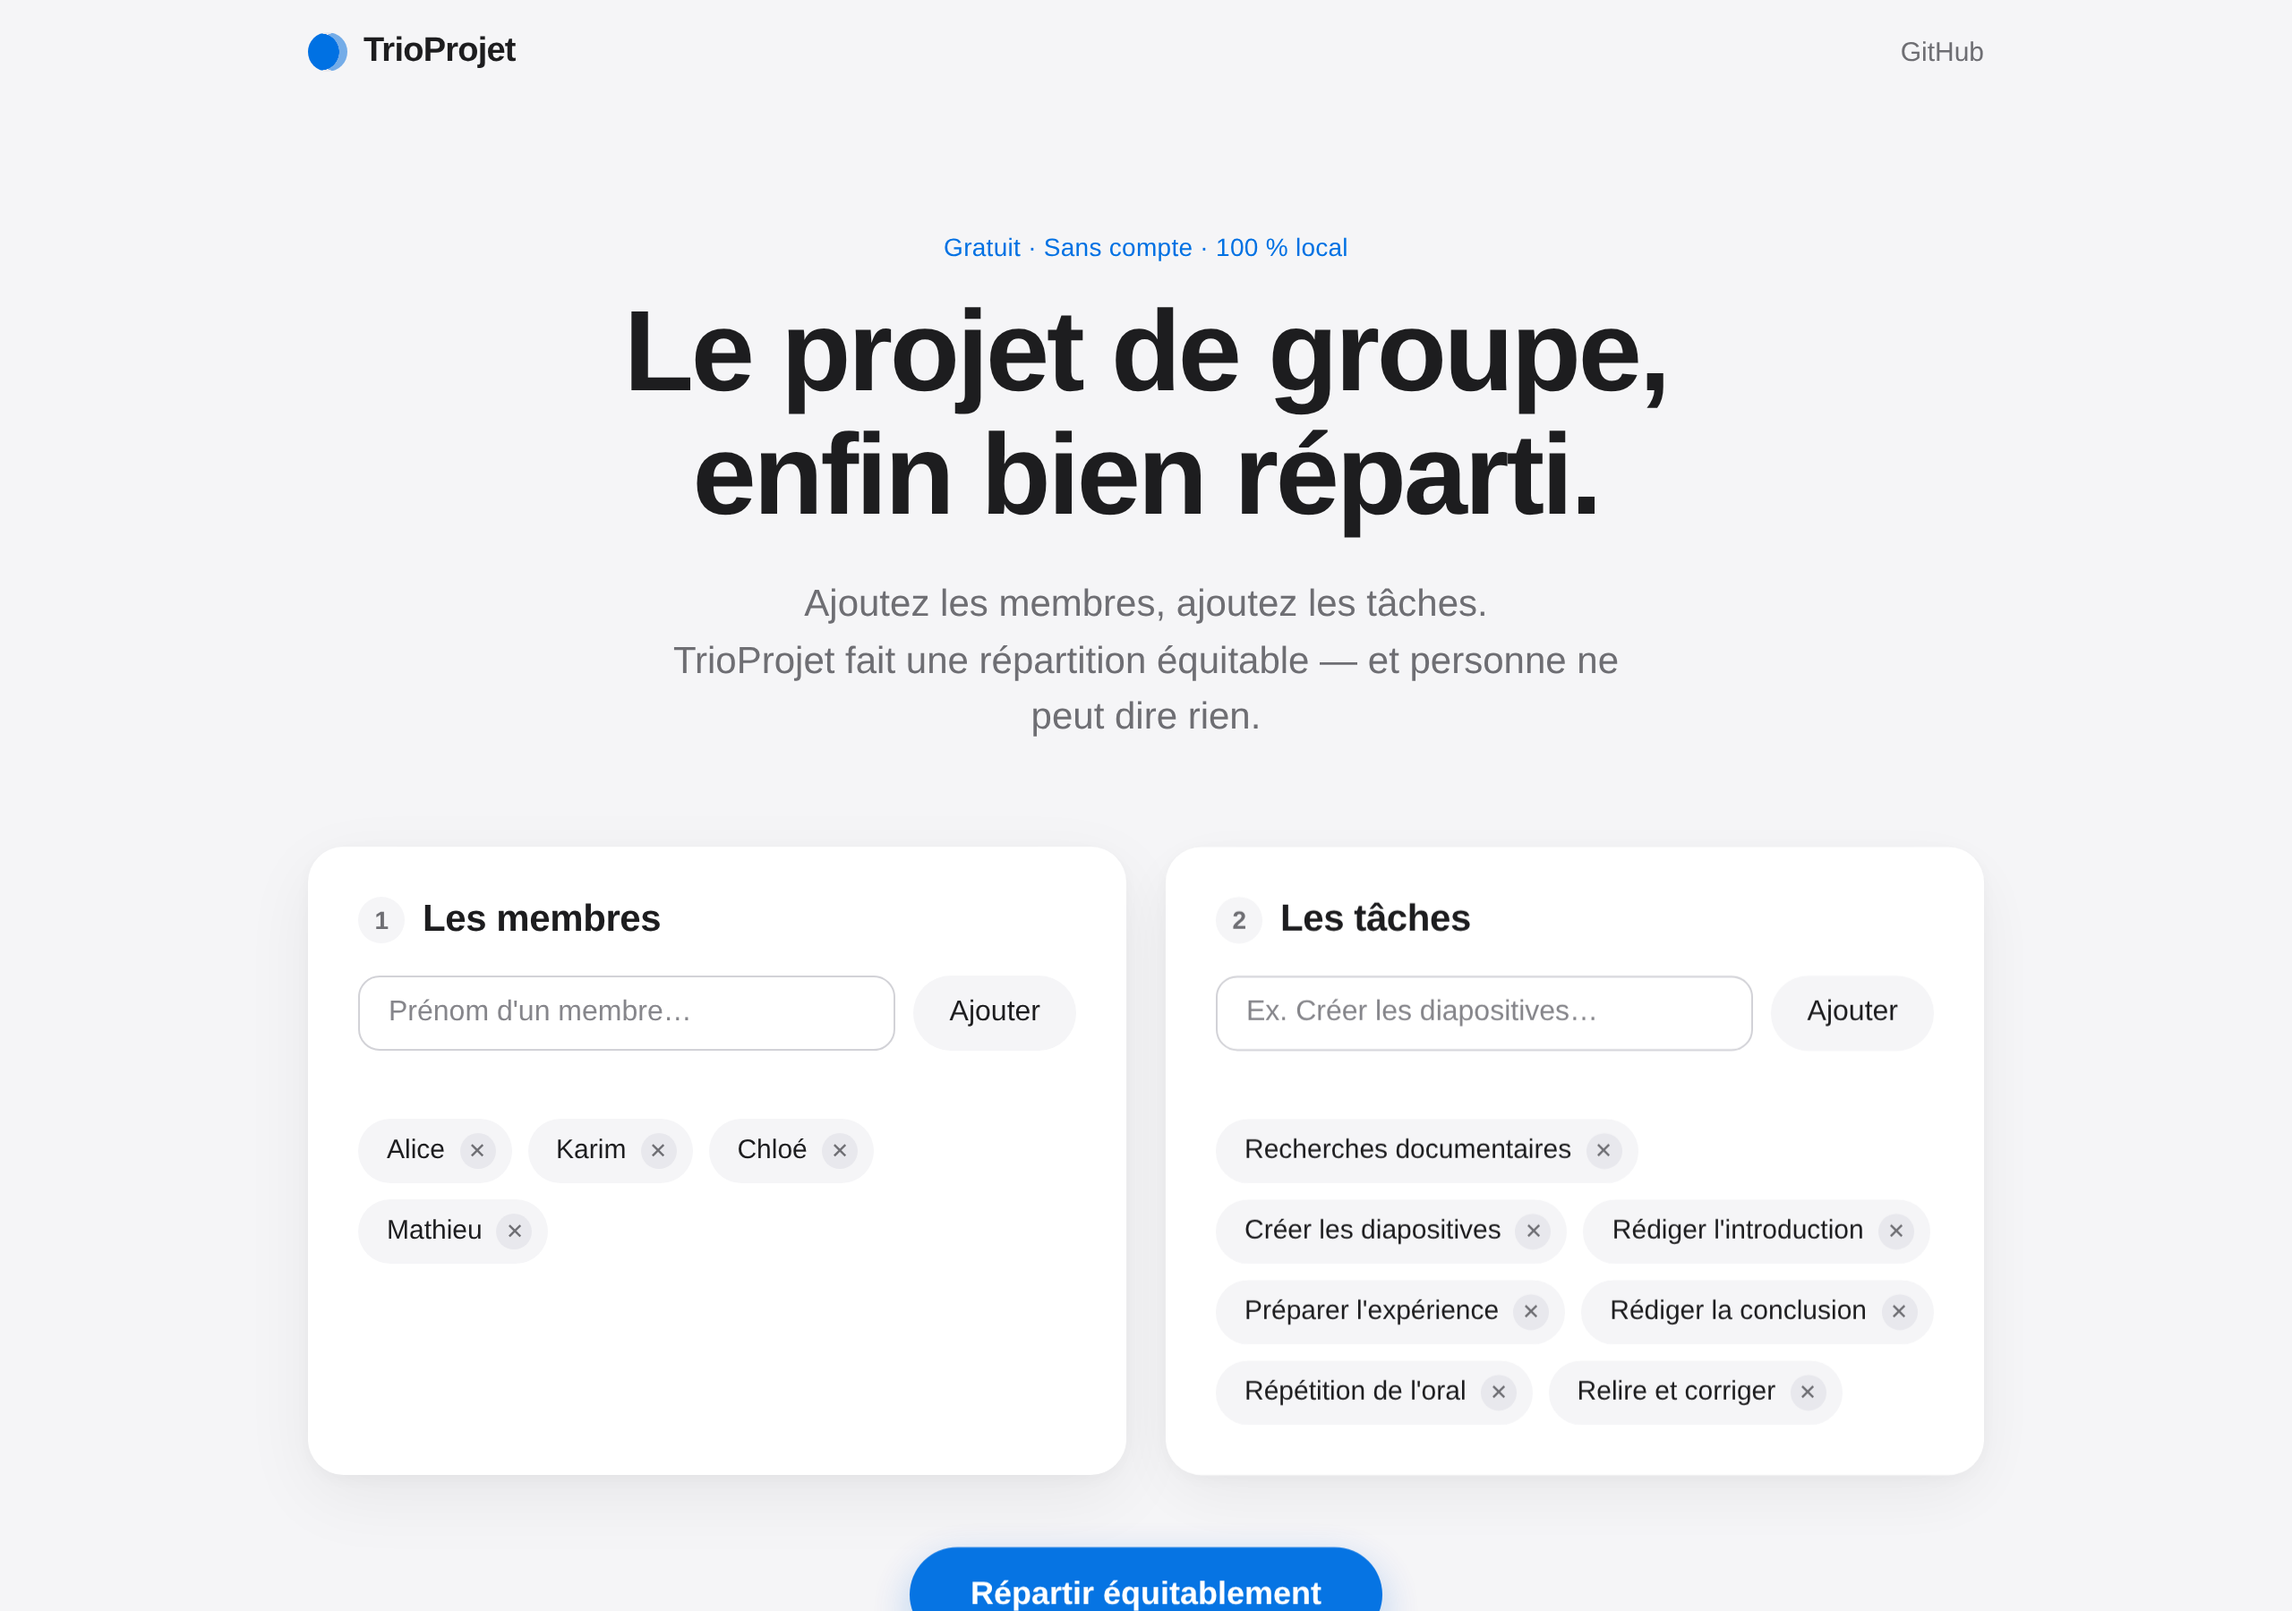
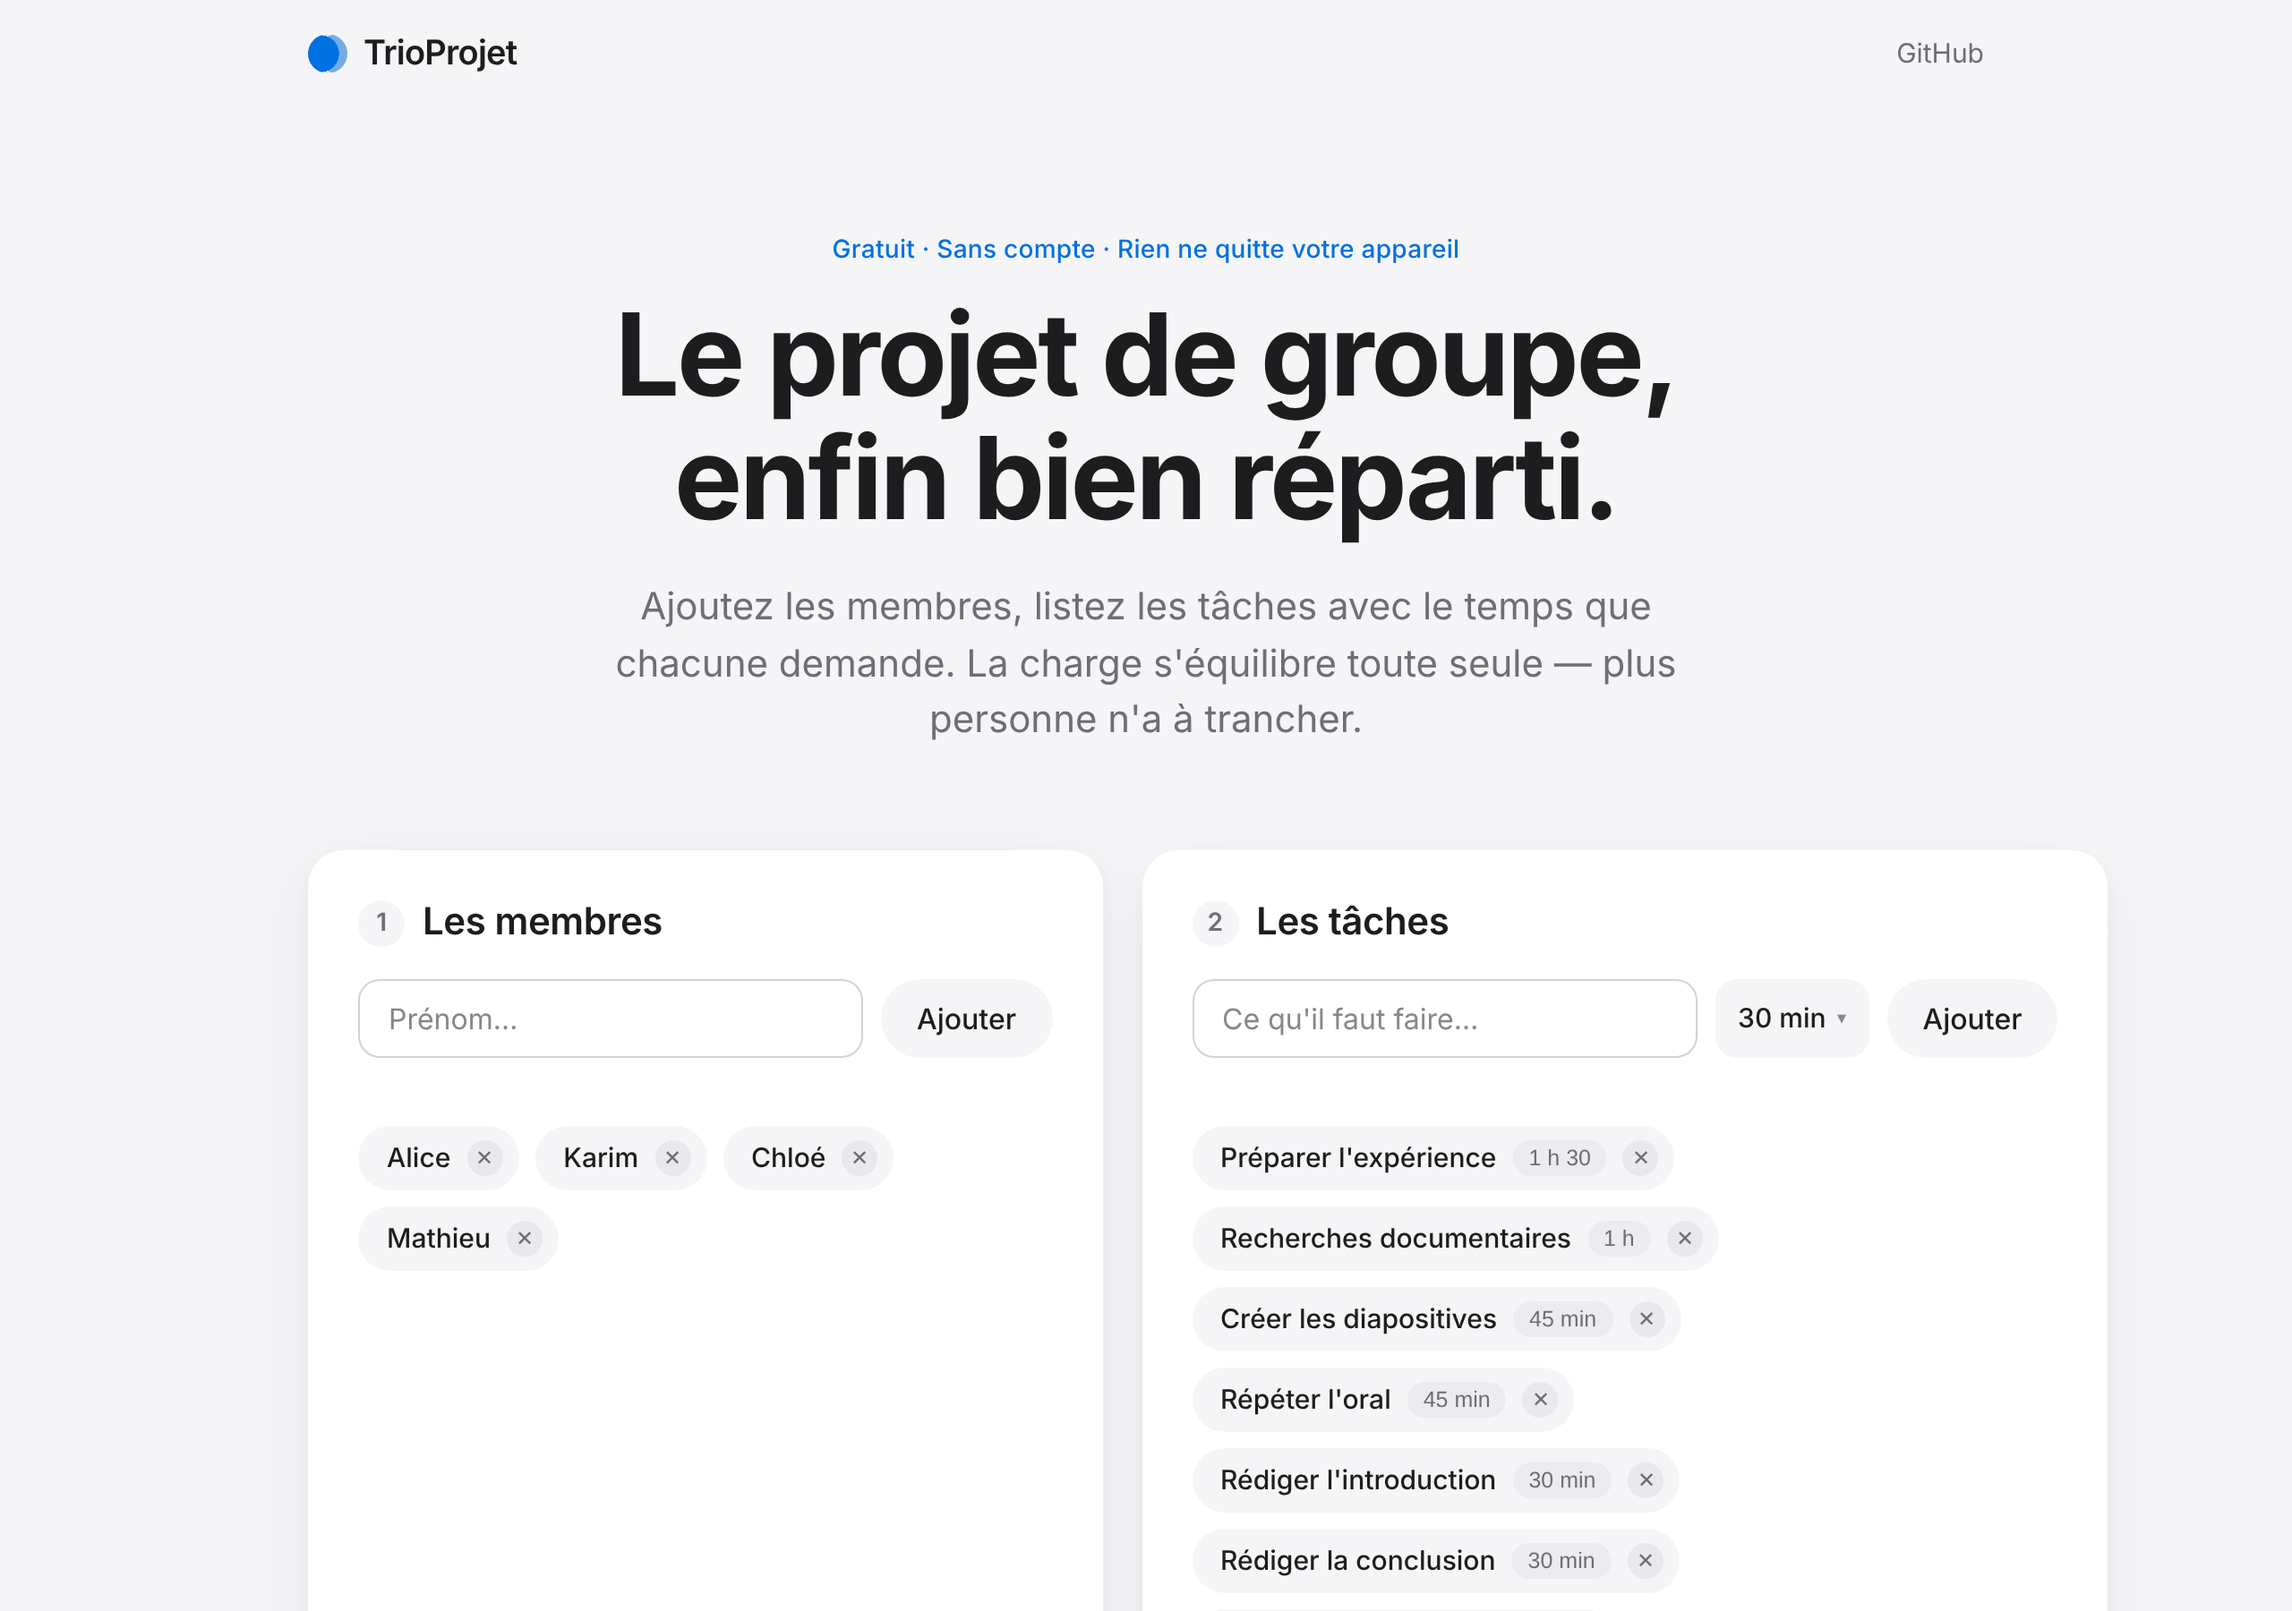
Nouveaux aperçus et documentation de la V2

diff --git a/README.md b/README.md
@@ -6,10 +6,11 @@
 
 **Le projet de groupe, enfin bien réparti.**
 
-TrioProjet est un petit outil pour les étudiants : vous ajoutez les membres du
-groupe, vous listez les tâches, et l'outil fait une répartition équitable avec
-la règle du serpentin — celle des terrains de jeu. Plus de dispute sur qui fait
-quoi, et surtout plus de personne qui se retrouve avec tout le travail.
+TrioProjet est un outil pour les étudiants : vous ajoutez les membres du
+groupe, vous listez les tâches avec le temps que chacune demande, et l'outil
+équilibre la charge réelle — pas seulement le nombre de tâches. Plus de
+dispute sur qui fait quoi, et surtout plus de personne qui se retrouve avec
+tout le travail.
 
 ![Aperçu de TrioProjet](docs/preview-resultat.png)
 
@@ -17,29 +18,43 @@ quoi, et surtout plus de personne qui se retrouve avec tout le travail.
 
 Parce que les projets de groupe, c'est souvent le même scénario : deux
 personnes travaillent, une personne disparaît, et la répartition se fait dans
-la précipitation la veille de l'échéance. TrioProjet règle ce moment en
-30 secondes, avec une méthode que tout le monde comprend et que personne ne
-peut contester — puisque c'est le hasard et le tour de rôle qui décident.
+la précipitation la veille de l'échéance. Et compter les tâches ne suffit pas :
+préparer une expérience (1 h 30) et relire le plan (20 min) ne pèsent pas le
+même poids. TrioProjet répartit la charge en temps, en 30 secondes, avec une
+méthode que tout le monde peut vérifier.
 
 ## Utilisation
 
 Le site est disponible en ligne : **https://strongbug999.github.io/trioprojet/**
 
 1. Ajoutez les membres du groupe (au moins deux)
-2. Listez les tâches à faire
+2. Listez les tâches et estimez leur durée — 30 min par défaut, modifiable
+   d'un clic sur chaque tâche
 3. Cliquez sur « Répartir équitablement »
-4. Copiez le résultat et envoyez-le au groupe
+4. Copiez le résultat pour le groupe, ou copiez le lien du projet pour le
+   partager tel quel
 
-Aucune inscription, aucune publicité, et **toutes les données restent sur votre
-appareil** (rien n'est envoyé sur un serveur).
+Aucune inscription, aucune publicité, et **toutes les données restent sur
+votre appareil** : aucune requête externe, aucun serveur, aucun suivi.
 
-## La règle du serpentin
+## Comment l'équilibrage fonctionne
 
-C'est la méthode utilisée pour répartir : on distribue les tâches une par une,
-dans un ordre mélangé, à tour de rôle — puis on repart en sens inverse, comme
-lorsqu'on constitue des équipes dans la cour de récréation. Résultat : les
-écarts entre membres ne dépassent jamais une tâche, et l'ordre de prise reste
-impartial.
+Les tâches sont mélangées, classées de la plus longue à la plus courte, puis
+chacune rejoint le membre qui a le moins de temps sur les épaules. C'est
+l'heuristique *Longest Processing Time* : simple à expliquer en une phrase,
+et très difficile à battre à la main. L'écart de charge entre membres est
+affiché sous le résultat — il ne dépasse jamais la durée de la plus petite
+tâche.
+
+## Fonctionnalités
+
+- Répartition **par charge réelle** (durées estimées, pas par simple compte)
+- Durées modifiables d'un clic (10 min à 10 h, valeur libre possible)
+- **Lien de partage** : le projet tient entièrement dans l'URL, sans serveur
+- Bouton « Redistribuer » pour relancer le tirage si le hasard déplaît
+- Résultat copiable prêt à coller dans le groupe
+- Sauvegarde automatique sur l'appareil (localStorage)
+- Zéro dépendance, zéro requête externe, fonctionne hors connexion
 
 ## Technologies
 
@@ -47,6 +62,7 @@ Du HTML, du CSS et du JavaScript. C'est tout.
 
 - **0 dépendance**, aucun framework, aucune base de données
 - **0 serveur** : le site est un ensemble de fichiers statiques
+- **0 requête externe** : pas de police téléchargée, pas d'analyseur, rien
 - Les données sont conservées dans le `localStorage` de votre navigateur
 
 ## Feuille de route
@@ -55,11 +71,9 @@ Des idées pour les prochaines versions (toute contribution est bienvenue) :
 
 - [ ] Indiquer ses préférences (tâche souhaitée / tâche évitée) pour une
       répartition qui tient compte des envies
-- [ ] Lien de partage (le projet encodé dans l'URL, toujours sans serveur)
-- [ ] Pondération des tâches (une recherche documentaire ne demande pas la
-      même charge qu'une répétition d'oral)
-- [ ] Export en image pour partage facile
+- [ ] Export du résultat en image pour partage facile
 - [ ] Version anglaise
+- [ ] Mode sombre
 
 ## Contribuer
 
